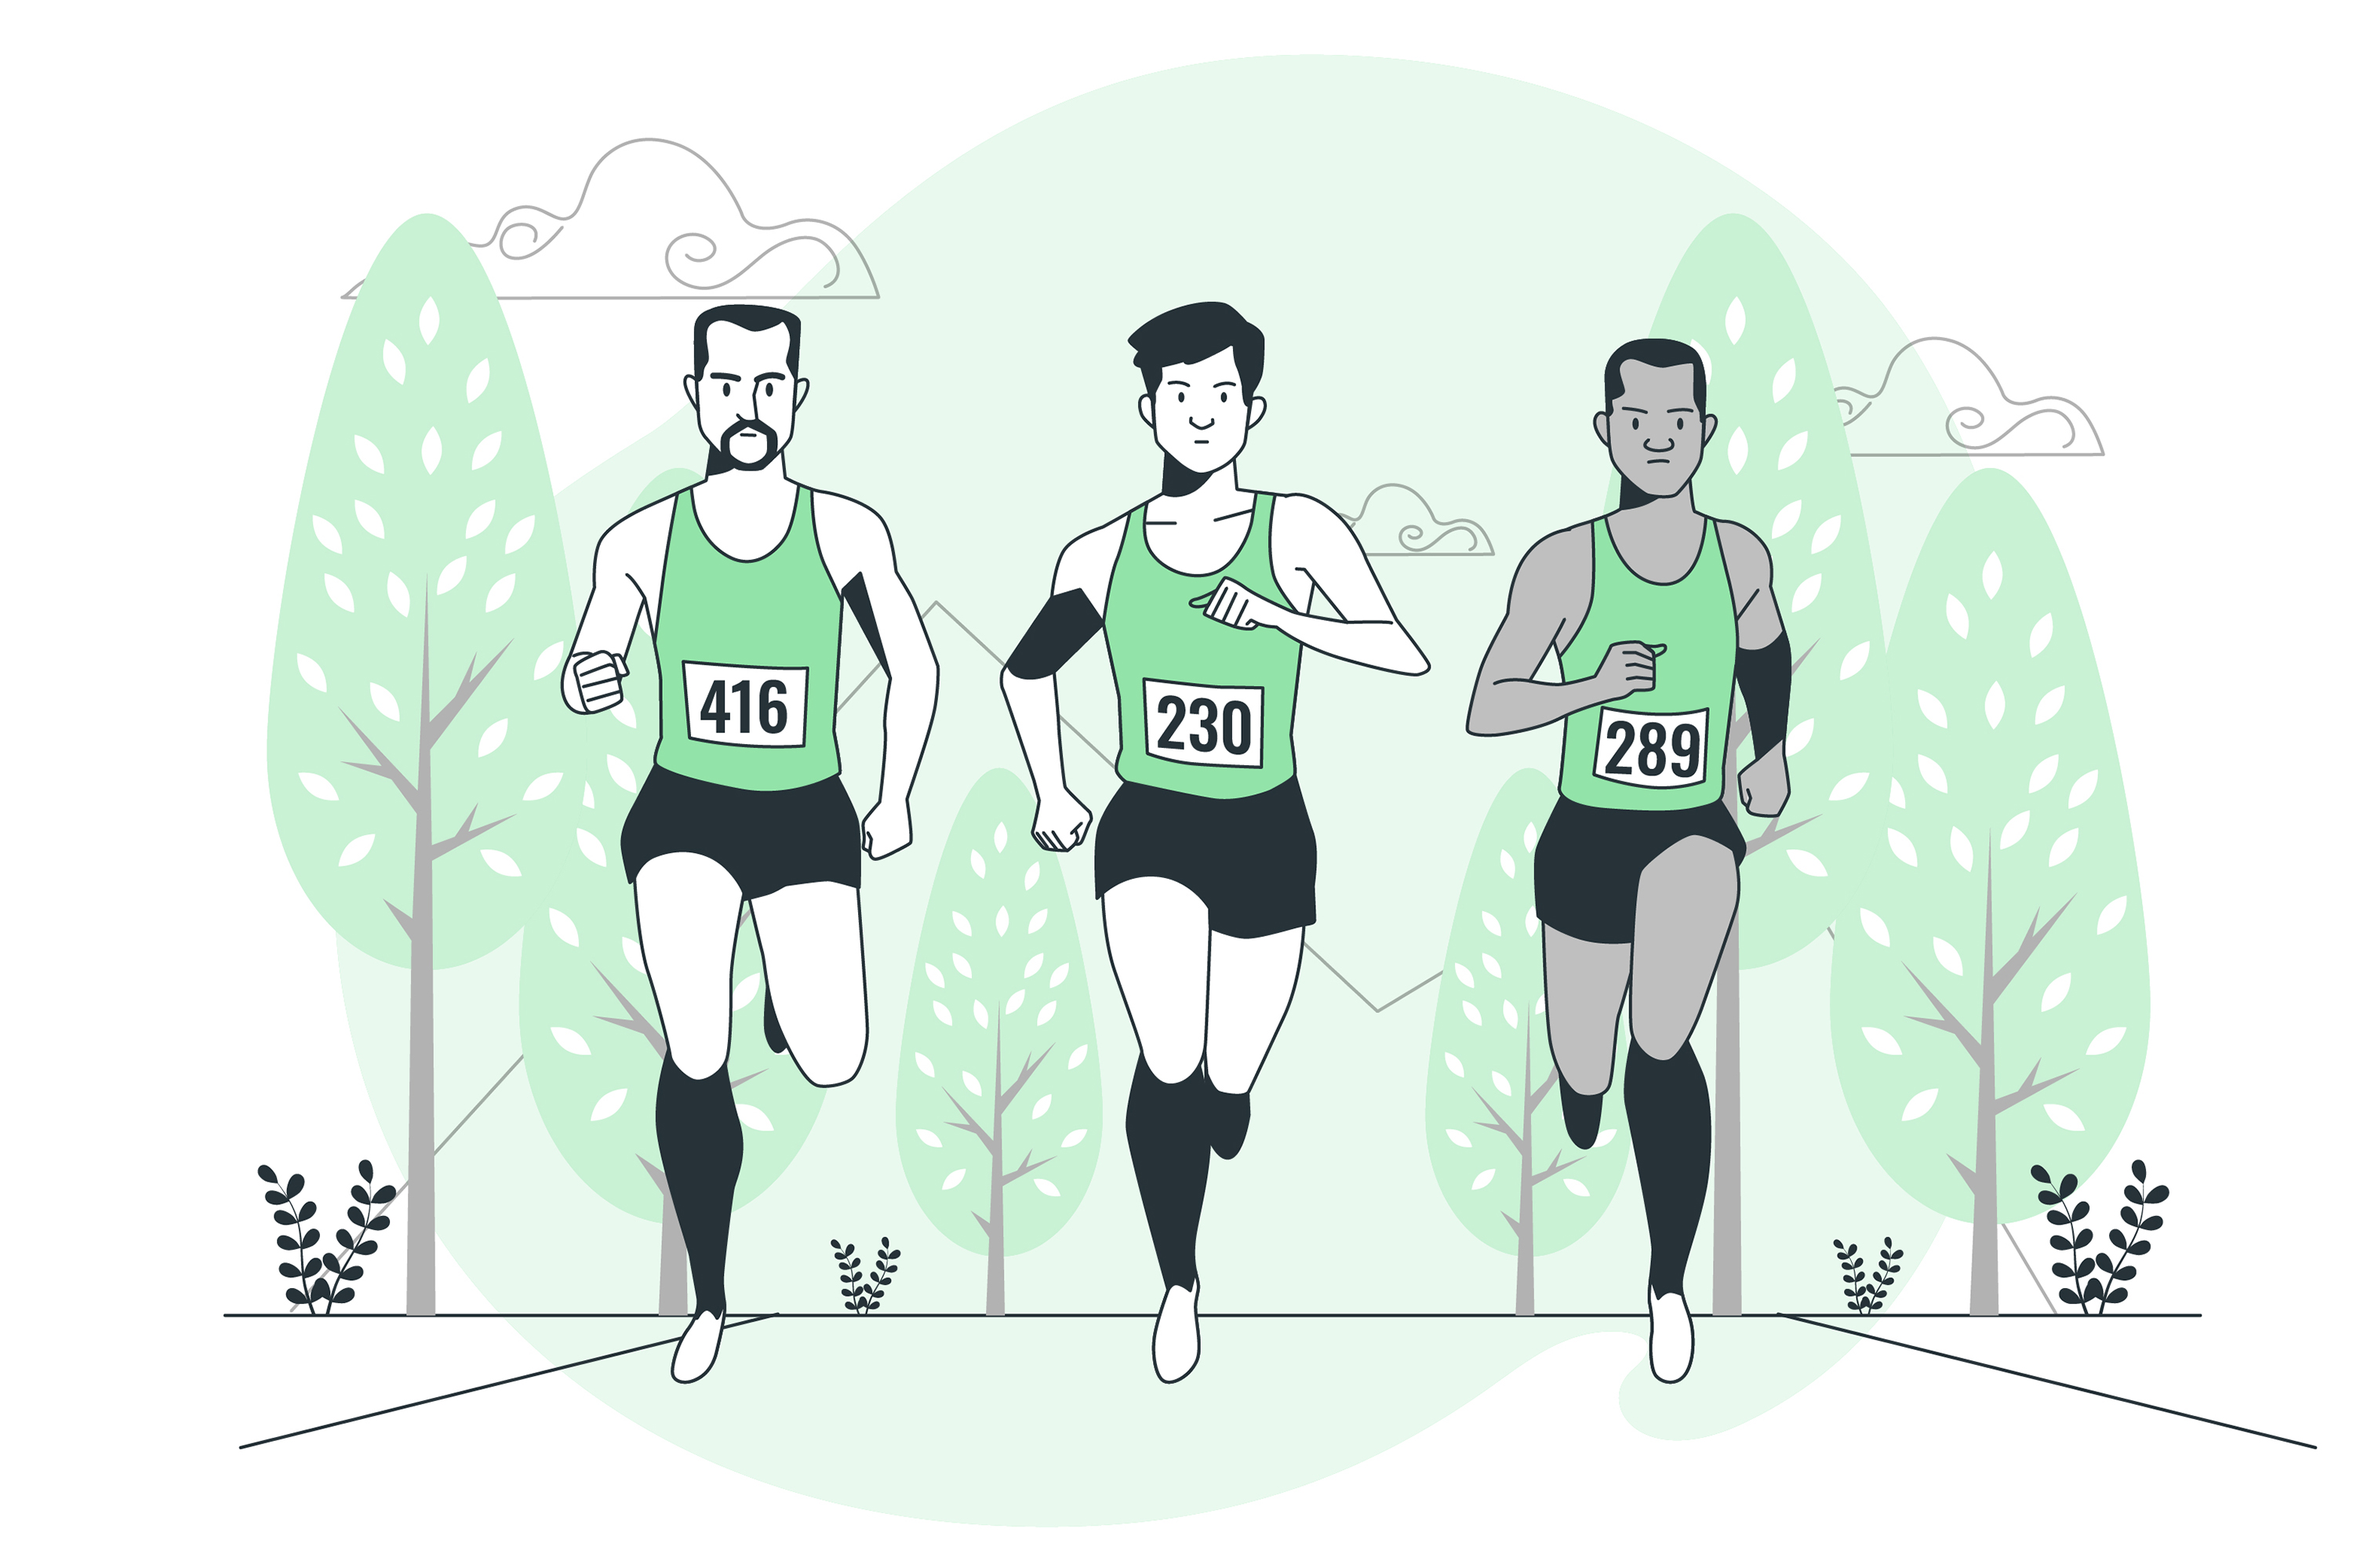
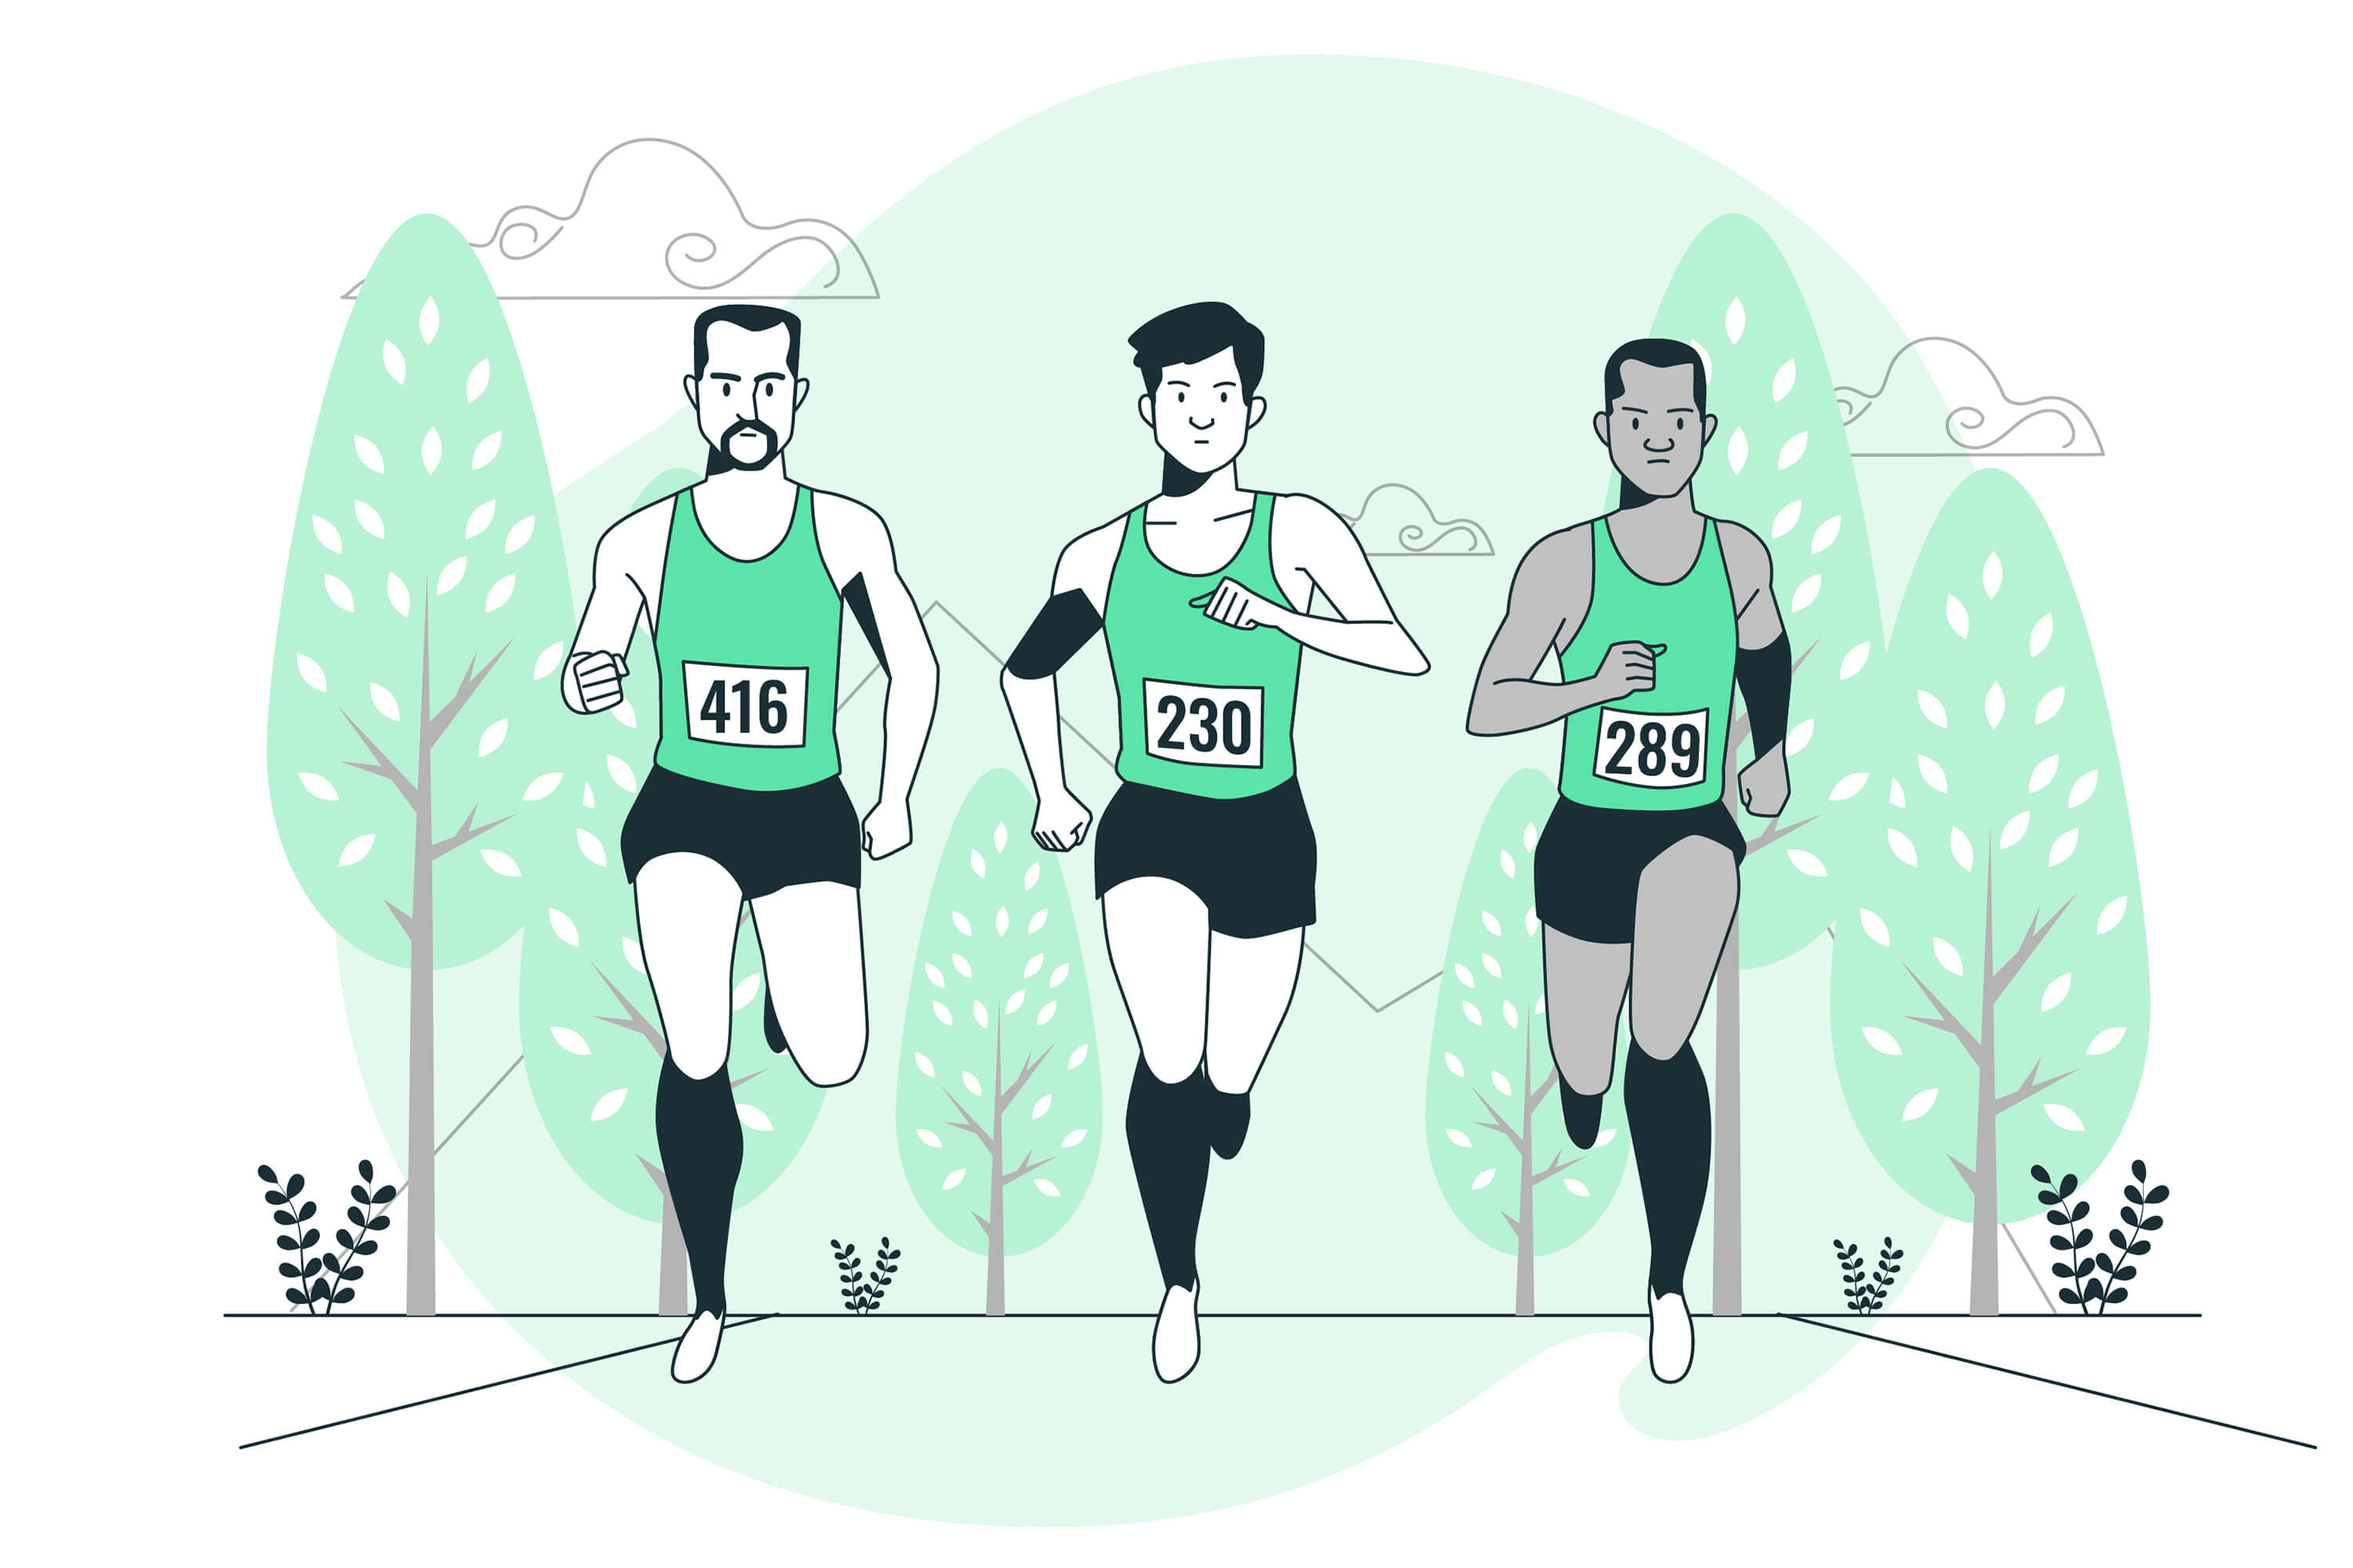
optimize images

diff --git a/resources/js/Components/NewsLetter.vue b/resources/js/Components/NewsLetter.vue
@@ -28,7 +28,7 @@
                     </p>
                 </div>
                 <dl
-                    v-motion-slide-visible-bottom
+                    v-motion-slide-visible-once-bottom
                     class="grid grid-cols-2 grid-rows-1 gap-x-8 gap-y-10 sm:grid-rows-2 lg:pt-2"
                 >
                     <div class="flex flex-col items-start">

diff --git a/resources/js/Components/Attachs.vue b/resources/js/Components/Attachs.vue
@@ -12,6 +12,7 @@
                 </p>
             </div>
             <div
+                v-motion-slide-visible-once-bottom
                 class="mx-auto mt-10 grid max-w-2xl grid-cols-1 gap-x-8 border-t border-gray-200 pt-10 sm:mt-16 sm:pt-16 lg:mx-0 lg:max-w-none lg:grid-cols-4"
             >
                 <article

diff --git a/resources/js/Components/Hero.vue b/resources/js/Components/Hero.vue
@@ -2,7 +2,7 @@
     <div class="relative h-screen isolate px-6 pt-14 lg:px-8">
         <img
             :src="hero"
-            alt="image"
+            alt="hero image"
             loading="lazy"
             class="absolute inset-0 -z-10 h-full w-full object-cover object-right md:object-center"
         />
